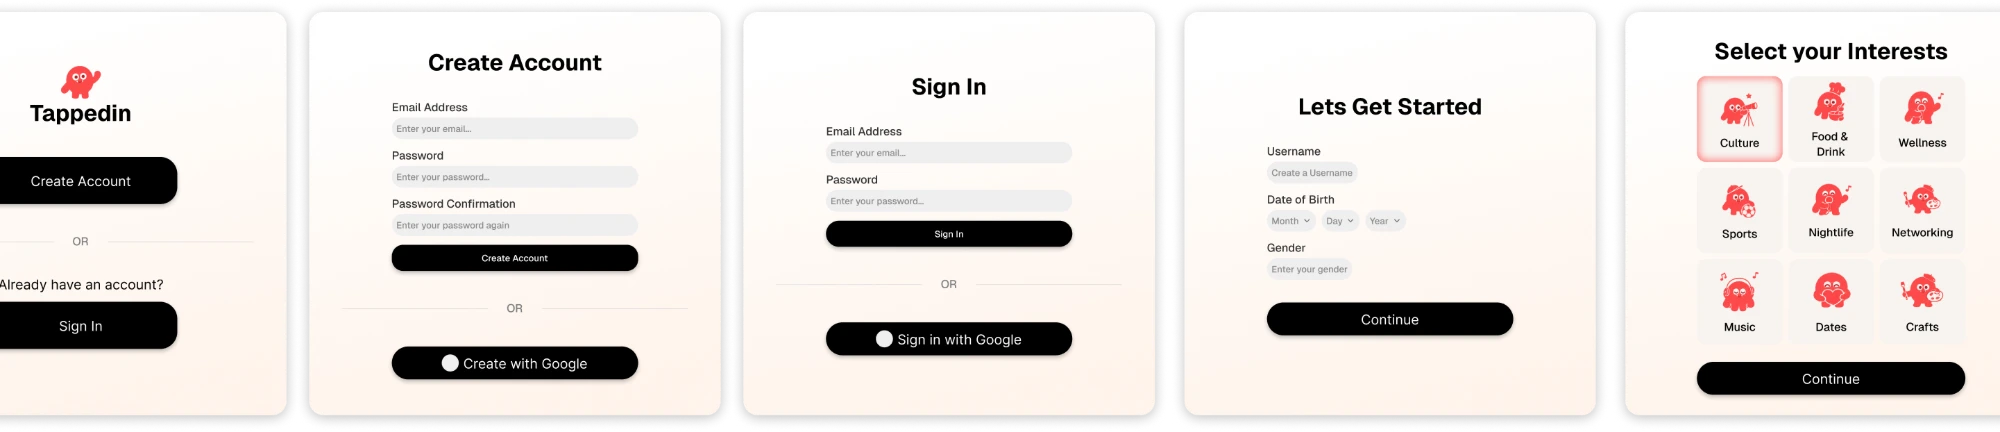
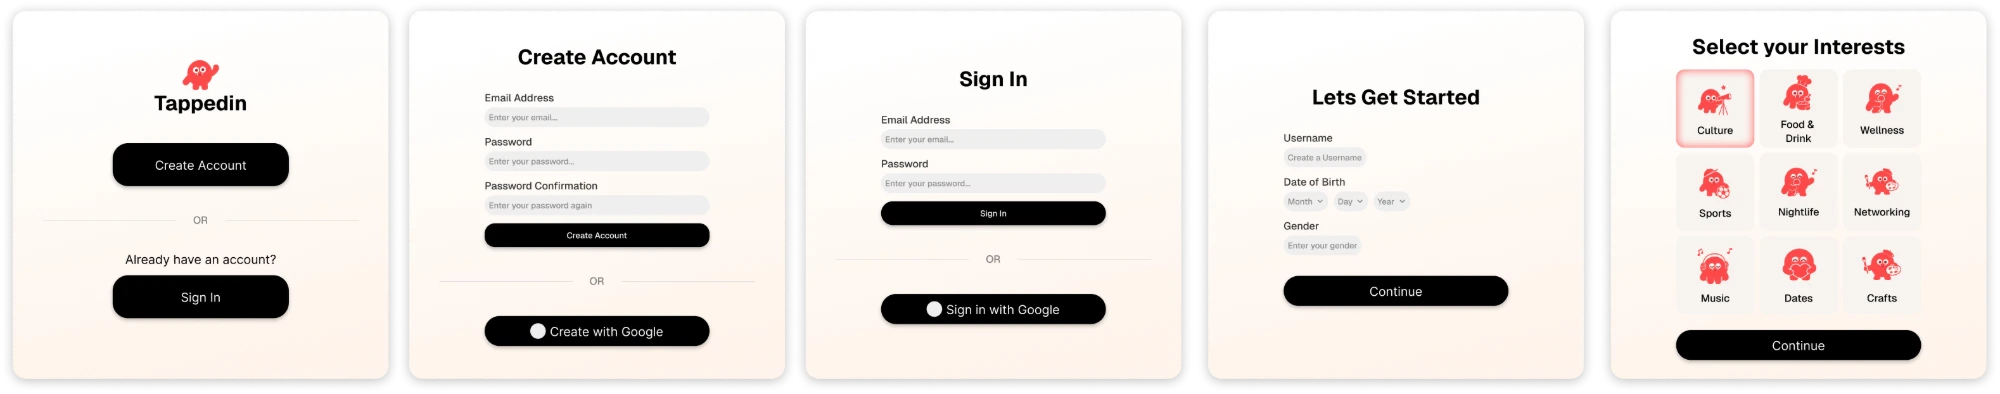
TappedIn: center text column, diagrams on the swirl, full login flow
- Headings and body copy share one centered reading column; images stay wide
- Competitive review and user flow have transparent backgrounds with light
  text, replacing the white panels
- Replace the cropped onboarding strip with the full export

diff --git a/components/case-study.tsx b/components/case-study.tsx
@@ -5,6 +5,8 @@ import { SiteNav } from "@/components/site-nav"
 import type { Block, CaseStudy as CaseStudyData, CaseStudyImage } from "@/content/case-studies/types"
 
 const captionClass = "mt-3 font-mono text-xs leading-relaxed text-foreground/60 md:text-sm"
+/** Headings and body copy share one centered reading column; images run wider */
+const textColumn = "mx-auto w-full max-w-2xl"
 
 export function CaseStudy({ study, next }: { study: CaseStudyData; next?: CaseStudyData }) {
   const metaItems = [
@@ -20,7 +22,7 @@ export function CaseStudy({ study, next }: { study: CaseStudyData; next?: CaseSt
       <SiteNav />
 
       <article className="relative z-10 mx-auto w-full max-w-7xl">
-        <header>
+        <header className={textColumn}>
           <p className="mb-8 font-mono text-xs text-foreground/60 md:mb-10 md:text-sm">
             <Link href="/work" className="underline-offset-4 transition-colors hover:text-foreground hover:underline">
               / Work
@@ -28,7 +30,7 @@ export function CaseStudy({ study, next }: { study: CaseStudyData; next?: CaseSt
             / {study.title}
           </p>
           <h1 className="sr-only">{study.title}</h1>
-          <p className="max-w-4xl text-xl font-light leading-snug text-foreground/90 md:text-2xl lg:text-[1.75rem] lg:leading-snug">
+          <p className="text-xl font-light leading-snug text-foreground/90 md:text-2xl">
             {study.intro}
           </p>
 
@@ -56,7 +58,7 @@ export function CaseStudy({ study, next }: { study: CaseStudyData; next?: CaseSt
 
         {study.sections.map((section) => (
           <section key={section.heading} className="mt-24 md:mt-32">
-            <h2 className="mb-6 font-sans text-3xl font-light tracking-tight md:mb-8 md:text-5xl">{section.heading}</h2>
+            <h2 className={`${textColumn} mb-6 font-sans text-3xl font-light tracking-tight md:mb-8 md:text-5xl`}>{section.heading}</h2>
             <div className="space-y-10 md:space-y-14">
               {section.blocks.map((block, i) => (
                 <CaseStudyBlock key={i} block={block} />
@@ -65,7 +67,7 @@ export function CaseStudy({ study, next }: { study: CaseStudyData; next?: CaseSt
           </section>
         ))}
 
-        <nav aria-label="Next project" className="mt-24 border-t border-foreground/15 pt-8 md:mt-32 md:pt-10">
+        <nav aria-label="Next project" className={`${textColumn} mt-24 border-t border-foreground/15 pt-8 md:mt-32 md:pt-10`}>
           <p className="mb-3 font-mono text-xs text-foreground/60 md:text-sm">{next ? "Next project" : "More work"}</p>
           <Link
             href={next ? `/work/${next.slug}` : "/work"}
@@ -86,7 +88,7 @@ function CaseStudyBlock({ block }: { block: Block }) {
   switch (block.kind) {
     case "prose":
       return (
-        <div className="max-w-[65ch] space-y-4 text-base leading-relaxed text-foreground/85 md:text-lg">
+        <div className={`${textColumn} space-y-4 text-base leading-relaxed text-foreground/85 md:text-lg`}>
           {block.paragraphs.map((paragraph) => (
             <p key={paragraph}>{paragraph}</p>
           ))}
@@ -101,7 +103,7 @@ function CaseStudyBlock({ block }: { block: Block }) {
               <CaseStudyFigureImage key={image.src} image={image} sizes="(max-width: 1280px) 100vw, 1280px" />
             ))}
           </div>
-          {block.caption ? <figcaption className={captionClass}>{block.caption}</figcaption> : null}
+          {block.caption ? <figcaption className={`${textColumn} ${captionClass}`}>{block.caption}</figcaption> : null}
         </figure>
       )
 
@@ -119,7 +121,7 @@ function CaseStudyBlock({ block }: { block: Block }) {
 
     case "list":
       return (
-        <ul className="grid grid-cols-1 gap-6 md:grid-cols-3 md:gap-8">
+        <ul className={`${textColumn} grid grid-cols-1 gap-6 md:grid-cols-3 md:gap-8`}>
           {block.items.map((item) => (
             <li key={item.title} className="border-t border-foreground/15 pt-4">
               <p className="mb-2 font-sans text-xl font-light md:text-2xl">{item.title}</p>
@@ -131,12 +133,12 @@ function CaseStudyBlock({ block }: { block: Block }) {
 
     case "stats":
       return (
-        <dl className="grid grid-cols-3 gap-6 md:gap-8">
+        <dl className={`${textColumn} grid grid-cols-3 gap-6 md:gap-8`}>
           {block.stats.map((stat) => (
             <div key={stat.label} className="border-t border-foreground/15 pt-4">
               <dt className="sr-only">{stat.label}</dt>
               <dd>
-                <span className="block font-sans text-4xl font-light tracking-tight md:text-7xl">{stat.value}</span>
+                <span className="block font-sans text-4xl font-light tracking-tight md:text-6xl">{stat.value}</span>
                 <span className="mt-1 block font-mono text-xs text-foreground/60 md:text-sm">{stat.label}</span>
               </dd>
             </div>
@@ -147,10 +149,10 @@ function CaseStudyBlock({ block }: { block: Block }) {
     case "decision":
       return (
         <div className="space-y-6 md:space-y-8">
-          <h3 className="font-sans text-xl font-light md:text-2xl">
+          <h3 className={`${textColumn} font-sans text-xl font-light md:text-2xl`}>
             <span className="text-foreground/60">{block.number} —</span> {block.title}
           </h3>
-          <div className="max-w-[65ch] space-y-4 text-base leading-relaxed text-foreground/85 md:text-lg">
+          <div className={`${textColumn} space-y-4 text-base leading-relaxed text-foreground/85 md:text-lg`}>
             {block.paragraphs.map((paragraph) => (
               <p key={paragraph}>{paragraph}</p>
             ))}
@@ -176,12 +178,14 @@ function CaseStudyBlock({ block }: { block: Block }) {
 }
 
 function CaseStudyFigureImage({ image, sizes }: { image: CaseStudyImage; sizes: string }) {
-  const img = (
-    <Image src={image.src} alt={image.alt} width={image.width} height={image.height} sizes={sizes} className={`h-auto w-full rounded-2xl ${image.onLightPanel ? "" : "opacity-90"}`} />
+  return (
+    <Image
+      src={image.src}
+      alt={image.alt}
+      width={image.width}
+      height={image.height}
+      sizes={sizes}
+      className="h-auto w-full rounded-2xl opacity-90"
+    />
   )
-
-  if (image.onLightPanel) {
-    return <div className="overflow-hidden rounded-2xl bg-white p-3 opacity-90 md:p-6">{img}</div>
-  }
-  return img
 }

diff --git a/content/case-studies/tappedin.ts b/content/case-studies/tappedin.ts
@@ -96,7 +96,7 @@ export const tappedin: CaseStudy = {
               src: `${dir}/sign-in.webp`,
               alt: "Onboarding screens: welcome, create account, sign in, username and birthday, and a grid for selecting interests",
               width: 2000,
-              height: 432,
+              height: 394,
             },
           ],
           caption: "Onboarding ends with picking interests, so recommendations are personal from the first search.",
@@ -116,11 +116,10 @@ export const tappedin: CaseStudy = {
           kind: "images",
           images: [
             {
-              src: `${dir}/competitive-review.webp`,
+              src: `${dir}/competitive-review-on-dark.webp`,
               alt: "Competitive review table comparing Luma, RA, Poppin, and Eventbrite by description, features, value proposition, disadvantages, screenshots, and what we like",
               width: 1815,
               height: 867,
-              onLightPanel: true,
             },
           ],
           caption: "Competitive review of Luma, RA, Poppin, and Eventbrite.",
@@ -130,11 +129,10 @@ export const tappedin: CaseStudy = {
           kind: "images",
           images: [
             {
-              src: `${dir}/user-flow.webp`,
+              src: `${dir}/user-flow-on-dark.webp`,
               alt: "User flow from the landing page to profile, AI search, or recommended listings, through split-screen results and event details, to RSVP off the website",
               width: 2000,
               height: 821,
-              onLightPanel: true,
             },
           ],
           caption: "User flow: landing page to AI search, split-screen results, event details, and RSVP.",

diff --git a/content/case-studies/types.ts b/content/case-studies/types.ts
@@ -3,8 +3,6 @@ export type CaseStudyImage = {
   alt: string
   width: number
   height: number
-  /** Diagrams with dark text on a transparent background need a light panel behind them */
-  onLightPanel?: boolean
 }
 
 export type Block =
